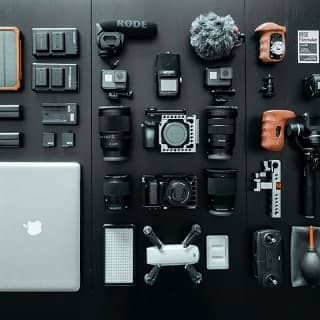
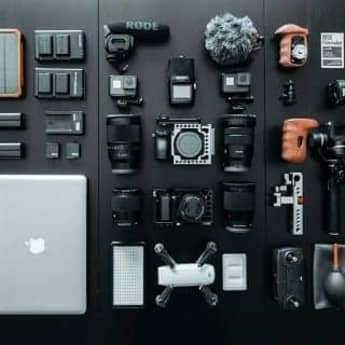
amélioration de la taille des images et retrait preload et-line et fontawesome

diff --git a/index.html b/index.html
@@ -9,10 +9,8 @@
     
 	<link rel="preload" href="./css/bootstrap.min.css" as="style" onload="this.onload=null;this.rel='stylesheet'">
 	<noscript><link rel="stylesheet" href="./css/bootstrap.min.css"></noscript>
-	<link rel="preload" href="./css/font-awesome.min.css" as="style" onload="this.onload=null;this.rel='stylesheet'">
-	<noscript><link rel="stylesheet" href="./css/font-awesome.min.css"></noscript>
-	<link rel="preload" href="./css/et-line.min.css" as="style" onload="this.onload=null;this.rel='stylesheet'">
-	<noscript><link rel="stylesheet" href="./css/et-line.min.css"></noscript>
+	<link rel="stylesheet" type="text/css" href="./css/font-awesome.min.css">
+	<link rel="stylesheet" type="text/css" href="./css/et-line.min.css">
 	<link rel="stylesheet" type="text/css" href="style.css">
 	
     
@@ -39,7 +37,7 @@
 	<div class="container bloc-sm">
 		<nav class="navbar row">
 			<div class="navbar-header">
-				<a class="navbar-brand" href="index.html"><img src="img/la-chouette-agence.png" alt="paris web design logo agence web meilleure agence" height="40" /></a>
+				<a class="navbar-brand" href="index.html"><img src="img/la-chouette-agence.png" alt="logo du dite qui représente une chouette suivi du texte la chouette agence" height="40" /></a>
 				<button id="nav-toggle" type="button" class="ui-navbar-toggle navbar-toggle" data-toggle="collapse" data-target=".navbar-1">
 					<span class="sr-only">Toggle navigation</span><span class="icon-bar"></span><span class="icon-bar"></span><span class="icon-bar"></span>
 				</button>
@@ -64,7 +62,7 @@
 	<div class="container bloc-lg">
 		<div class="row tight-width-whitespace">
 			<div class="col-sm-12">
-				<img src="img/logo.png" class="center-block image-resize-mode" width="100" alt="La chouette agence, agence web paris, création logo paris" />
+				<img src="img/logo.png" class="center-block image-resize-mode" width="100" alt="logo du dite qui représente une chouette" />
 				<h1 class="text-center hero-bloc-text tc-white ">
 					La chouette agence.
 				</h1>
@@ -168,7 +166,7 @@
 		</div>
 		<div class="row tight-width-whitespace portfolio-row">
 			<div class="col-sm-6">
-				<a href="#" data-lightbox="img/1.jpg" data-gallery-id="gallery-1" data-caption="Refonte d'un site web pour un journal local" data-frame="snapshot-lb"><img src="img/1.jpg" alt="paris web design logo agence web meilleure agence et refonte site web journal" class="img-responsive portfolio-thumb" /></a>
+				<a href="#" data-lightbox="img/1.jpg" data-gallery-id="gallery-1" data-caption="Refonte d'un site web pour un journal local" data-frame="snapshot-lb"><img src="img/1-mob.jpg" alt="plusieurs magazines ouverts très colorés posés les uns sur les autres" class="img-responsive portfolio-thumb" /></a>
 				<h3 class="mg-md text-center">
 					Refonte d'un site web pour un journal local
 				</h3>
@@ -177,7 +175,7 @@
 				</p>
 			</div>
 			<div class="col-sm-6">
-				<a href="#" data-lightbox="img/2.jpg" data-gallery-id="gallery-1" data-caption="Création d'un site web pour photographes" data-frame="snapshot-lb"><img src="img/2.jpg" class="img-responsive portfolio-thumb" alt="paris web design logo agence web meilleure agence, Création d'un site web pour photographes" /></a>
+				<a href="#" data-lightbox="img/2.jpg" data-gallery-id="gallery-1" data-caption="Création d'un site web pour photographes" data-frame="snapshot-lb"><img src="img/2-mob.jpg" class="img-responsive portfolio-thumb" alt="un appareil photo sur un trépied à gauche avec une dame placée derrière qui prend une photo" /></a>
 				<h3 class="mg-md text-center">
 					Création d'un site web pour photographes
 				</h3>
@@ -188,7 +186,7 @@
 		</div>
 		<div class="row tight-width-whitespace portfolio-row">
 			<div class="col-sm-6">
-				<a href="#" data-lightbox="img/3.jpg" data-gallery-id="gallery-1" data-caption="Création d'un site internet pour un voyageur" data-frame="snapshot-lb"><img src="img/3.jpg" class="img-responsive portfolio-thumb" alt="paris web design logo agence web meilleure agence, Création d'un site web pour voyageur"/></a>
+				<a href="#" data-lightbox="img/3.jpg" data-gallery-id="gallery-1" data-caption="Création d'un site internet pour un voyageur" data-frame="snapshot-lb"><img src="img/3.jpg" class="img-responsive portfolio-thumb" alt="plusieurs appareils multimédia placés a plats sur une table"/></a>
 				<h3 class="mg-md text-center">
 					Création d'un site internet pour un voyageur
 				</h3>
@@ -197,7 +195,7 @@
 				</p>
 			</div>
 			<div class="col-sm-6">
-				<a href="#" data-lightbox="img/4.jpg" data-gallery-id="gallery-1" data-caption="Conception d'un site pour une agence de mariage" data-frame="snapshot-lb"><img src="img/4.jpg" class="img-responsive portfolio-thumb" alt="paris web design logo agence web meilleure agence, Création d'un site web pour agence de mariage" /></a>
+				<a href="#" data-lightbox="img/4.jpg" data-gallery-id="gallery-1" data-caption="Conception d'un site pour une agence de mariage" data-frame="snapshot-lb"><img src="img/4.jpg" class="img-responsive portfolio-thumb" alt="deux personnes face à face, une qui travail sur une tablette, l'autre sur un PC avec des objets de décorations et un thé" /></a>
 				<h3 class="mg-md text-center">
 					Conception d'un site pour une agence de mariage
 				</h3>

diff --git a/contact.html b/contact.html
@@ -9,10 +9,8 @@
     
 	<link rel="preload" href="./css/bootstrap.min.css" as="style" onload="this.onload=null;this.rel='stylesheet'">
 	<noscript><link rel="stylesheet" href="./css/bootstrap.min.css"></noscript>
-	<link rel="preload" href="./css/font-awesome.min.css" as="style" onload="this.onload=null;this.rel='stylesheet'">
-	<noscript><link rel="stylesheet" href="./css/font-awesome.min.css"></noscript>
-	<link rel="preload" href="./css/et-line.min.css" as="style" onload="this.onload=null;this.rel='stylesheet'">
-	<noscript><link rel="stylesheet" href="./css/et-line.min.css"></noscript>
+	<link rel="stylesheet" type="text/css" href="./css/font-awesome.min.css">
+	<link rel="stylesheet" type="text/css" href="./css/et-line.min.css">
 	<link rel="stylesheet" type="text/css" href="style.css">
 	
     
@@ -38,7 +36,7 @@
 	<div class="container bloc-sm">
 		<nav class="navbar row">
 			<div class="navbar-header">
-				<a class="navbar-brand" href="index.html"><img src="img/la-chouette-agence.png" alt="atlanta web design logo" height="40" /></a>
+				<a class="navbar-brand" href="index.html"><img src="img/la-chouette-agence.png" alt="logo du dite qui représente une chouette suivi du texte la chouette agence" height="40" /></a>
 				<button id="nav-toggle" type="button" class="ui-navbar-toggle navbar-toggle" data-toggle="collapse" data-target=".navbar-1">
 					<span class="sr-only">Toggle navigation</span><span class="icon-bar"></span><span class="icon-bar"></span><span class="icon-bar"></span>
 				</button>
